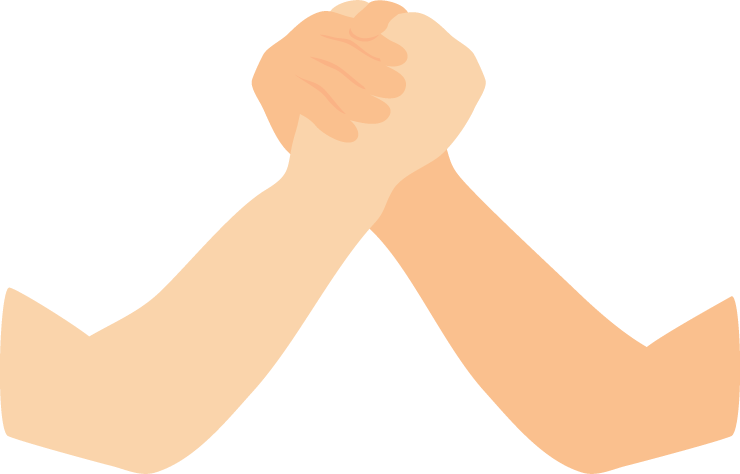
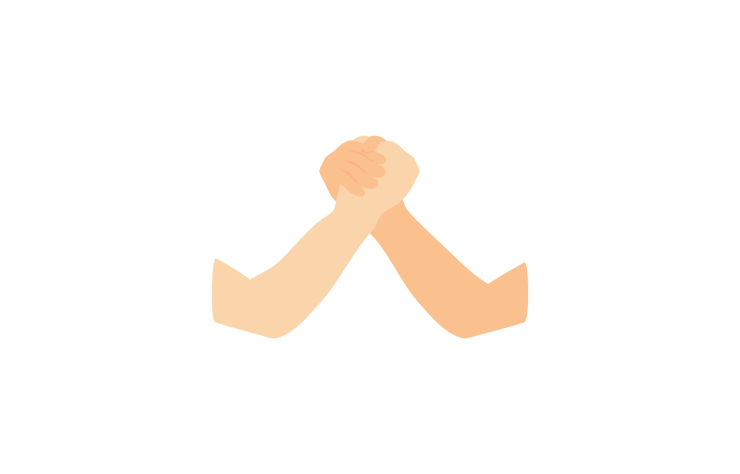
[feature]腕の画像が傾き機能を追加

diff --git a/src/GameBaseState.java b/src/GameBaseState.java
@@ -2,22 +2,87 @@ import java.awt.Color;
 import java.awt.Graphics;
 import java.awt.Image;
 import java.awt.Toolkit;
+import java.util.HashMap;
+import java.util.Map;
 
 public abstract class GameBaseState implements State {
     protected PowerBar powerBar;
     protected Time time;
-    protected Image image;
+    protected Map<Integer, Image> armImages;
     protected Image backgroundImage;
     protected int elapsedCount;
+    
+    // 腕の角度の範囲
+    private static final int MIN_ARM_ANGLE = -80;
+    private static final int MAX_ARM_ANGLE = 80;
+    private static final int ARM_ANGLE_STEP = 10;
     
     public GameBaseState() {
         powerBar = new PowerBar();
         time = new Time();
         elapsedCount = 0;
         
-        // 画像を読み込む
-        image = Toolkit.getDefaultToolkit().getImage(getClass().getResource("arm_00.png"));
+        // 腕画像を事前に全て読み込む
+        loadArmImages();
+        
+        // 背景画像を読み込む
         backgroundImage = Toolkit.getDefaultToolkit().getImage(getClass().getResource("pxfuel.jpg"));
+    }
+    
+    /**
+     * 腕の画像を全て読み込んでMapに格納
+     */
+    private void loadArmImages() {
+        armImages = new HashMap<>();
+        
+        for (int angle = MIN_ARM_ANGLE; angle <= MAX_ARM_ANGLE; angle += ARM_ANGLE_STEP) {
+            String filename = "arm_" + String.format("%02d", angle) + ".png";
+            try {
+                Image armImage = Toolkit.getDefaultToolkit().getImage(getClass().getResource(filename));
+                armImages.put(angle, armImage);
+            } catch (Exception e) {
+                System.err.println("画像の読み込みに失敗しました: " + filename);
+                e.printStackTrace();
+            }
+        }
+    }
+    
+    /**
+     * パワーバーの値に基づいて適切な腕の角度を計算
+     * @return 腕の角度（-80から80の範囲）
+     */
+    private int calculateArmAngle() {
+        double powerPercent = powerBar.getCurrentBarPercent();
+        
+        // パワーバーの値（0.0-1.0）を腕の角度（-80から80）にマッピング
+        // 0.0 → -80度（右側に傾く）
+        // 0.5 → 0度（中央）
+        // 1.0 → 80度（左側に傾く）
+        int angle = (int) (MIN_ARM_ANGLE + (powerPercent * (MAX_ARM_ANGLE - MIN_ARM_ANGLE)));
+        
+        // 10度単位に丸める
+        angle = Math.round(angle / (float) ARM_ANGLE_STEP) * ARM_ANGLE_STEP;
+        
+        // 範囲内に収める
+        angle = Math.max(MIN_ARM_ANGLE, Math.min(MAX_ARM_ANGLE, angle));
+        
+        return angle;
+    }
+    
+    /**
+     * 現在のパワーバーの値に応じた腕の画像を取得
+     * @return 腕の画像
+     */
+    private Image getCurrentArmImage() {
+        int angle = calculateArmAngle();
+        Image armImage = armImages.get(angle);
+        
+        // 画像が見つからない場合は中央の画像を使用
+        if (armImage == null) {
+            armImage = armImages.get(0);
+        }
+        
+        return armImage;
     }
     
     protected State updateState(String typed) {
@@ -25,7 +90,7 @@ public abstract class GameBaseState implements State {
         String winner = getWinner();
         
         if (winner != null) {
-            return new ResultState(winner, powerBar);
+            return new ResultState(winner, powerBar, getCurrentArmImage());
         }
         
         // ボス戦への移行
@@ -97,12 +162,34 @@ public abstract class GameBaseState implements State {
         g.setColor(Color.WHITE);
         drawPlayerInfo(g);
         
-        // アーム画像
-        view.drawScaledImage(g, image, 100, 150, 0.5);
+        // パワーバーの値に応じた腕画像を描画
+        Image currentArmImage = getCurrentArmImage();
+        if (currentArmImage != null) {
+            g.drawImage(currentArmImage, -70, 0, view);
+        }
         
         // UI要素
         powerBar.showBar(g);
         time.showTime(g);
+        
+        // デバッグ情報（開発時のみ）
+        drawDebugInfo(g);
+    }
+    
+    /**
+     * デバッグ情報を描画（開発時のみ）
+     */
+    private void drawDebugInfo(Graphics g) {
+        // デバッグモードの場合のみ表示
+        boolean debugMode = false; // 必要に応じてtrueに変更
+        
+        if (debugMode) {
+            g.setColor(Color.YELLOW);
+            int angle = calculateArmAngle();
+            double powerPercent = powerBar.getCurrentBarPercent();
+            g.drawString("Power: " + String.format("%.2f", powerPercent), 10, 20);
+            g.drawString("Arm Angle: " + angle + "°", 10, 40);
+        }
     }
     
     // サブクラスで実装する抽象メソッド

diff --git a/src/ResultState.java b/src/ResultState.java
@@ -14,14 +14,14 @@ public class ResultState implements State{
 	private boolean isEnd;
 	private PowerBar powerBar;
 
-	public ResultState(String winnerName,PowerBar powerBar) {
+	public ResultState(String winnerName,PowerBar powerBar,Image image) {
 		
 		isEnd = false;
 		this.winnerName = winnerName;
 		this.powerBar = powerBar;
 		
         // 画像を読み込む．画像ファイルは src においておくと bin に自動コピーされる
-       image = Toolkit.getDefaultToolkit().getImage(getClass().getResource("arm_00.png"));
+       this.image = image;
        backgroundImage = Toolkit.getDefaultToolkit().getImage(getClass().getResource("pxfuel.jpg"));
 	}
 
@@ -49,7 +49,10 @@ public class ResultState implements State{
 	@Override
 	public void paintComponent(Graphics g, View view) {
 		view.drawScaledImage(g,backgroundImage,-150,0,0.35);
-		view.drawScaledImage(g,image,100,150,0.5);
+		
+        // アーム画像
+       g.drawImage(image, -70, 0, view);
+       
 		g.setColor(Color.WHITE);
 		
 		g.drawString(winnerName + " WIN!", 200, 150);

diff --git a/src/ReadyState.java b/src/ReadyState.java
@@ -64,7 +64,9 @@ public class ReadyState implements State{
 	@Override
 	public void paintComponent(Graphics g, View view) {
 		view.drawScaledImage(g,backgroundImage,-150,0,0.35);
-		view.drawScaledImage(g,image,100,150,0.5);
+		
+        // アーム画像
+       g.drawImage(image, -70, 0, view);
 		g.setColor(Color.WHITE);
 		
 		Font font = new Font("Arial", Font.BOLD, 100);
